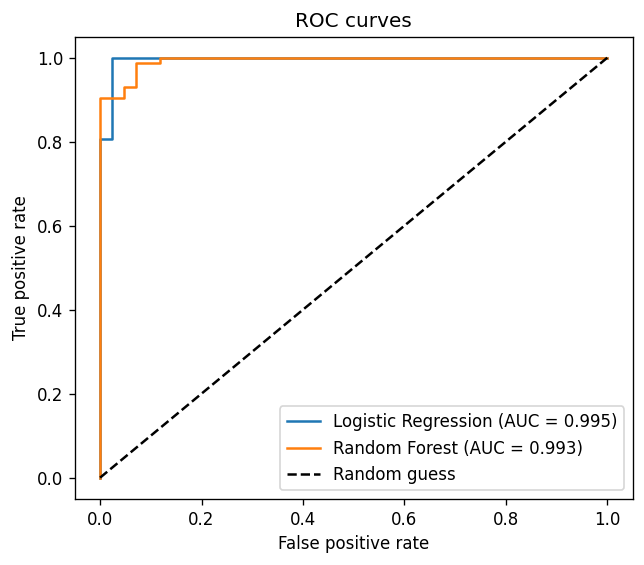
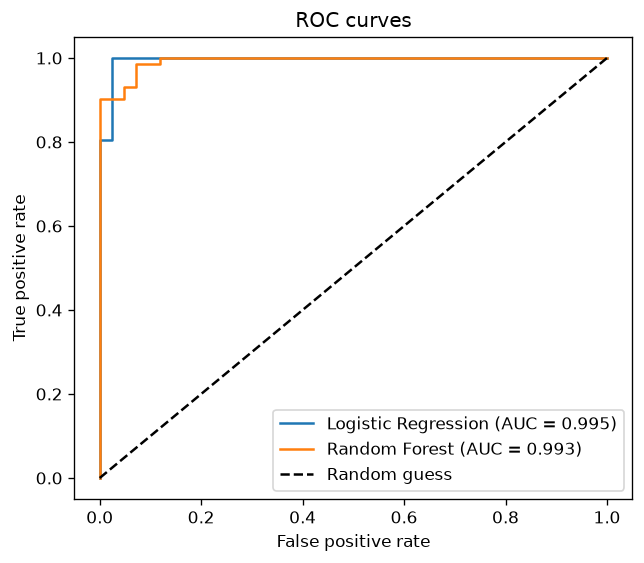
Add day-15-model-evaluation

diff --git a/System7-task3/day-15-model-evaluation/practice/q03_regression_metrics.py b/System7-task3/day-15-model-evaluation/practice/q03_regression_metrics.py
@@ -8,13 +8,19 @@ import pandas as pd
 from sklearn.linear_model import LinearRegression
 from sklearn.metrics import mean_absolute_error, mean_squared_error, r2_score
 from sklearn.model_selection import train_test_split
-
-DATA = Path(__file__).resolve().parents[2] / "tasks" / "data" / "houses.csv"
+try:
+    print("data loading successfull.")
+    DATA = Path(__file__).resolve().parents[2] / "syllabus Modules" / "data" / "houses.csv"
+except Exception as e:
+    print("Error to loading the data:",e)
+# if not DATA.exists():
+#     DATA = Path(__file__).resolve().parents[2] / "sylla" / "data" / "houses.csv"
 df = pd.read_csv(DATA).dropna()
 features = ["area_sqft", "bedrooms", "bathrooms", "age_years", "distance_km"]
 
 X_train, X_test, y_train, y_test = train_test_split(
     df[features], df["price"], test_size=0.2, random_state=42)
+
 model = LinearRegression().fit(X_train, y_train)
 y_true = y_test.to_numpy()
 y_pred = model.predict(X_test)

diff --git a/System7-task3/day-15-model-evaluation/practice/q01_split_stratify.py b/System7-task3/day-15-model-evaluation/practice/q01_split_stratify.py
@@ -3,11 +3,15 @@ from sklearn.datasets import load_breast_cancer
 from sklearn.model_selection import train_test_split
 
 X, y = load_breast_cancer(return_X_y=True, as_frame=True)
-
-X_train, X_test, y_train, y_test = train_test_split(
+try:
+    print("working only")
+    X_train, X_test, y_train, y_test = train_test_split(
     X, y, test_size=0.20, random_state=42, stratify=y
 )
-
+except Exception as e:
+    print("not working")
+    print(e)
+    
 for name, X_part, y_part in [("Train", X_train, y_train), ("Test", X_test, y_test)]:
     print(f"{name}: X shape = {X_part.shape}, y shape = {y_part.shape}")
     counts = y_part.value_counts().sort_index().to_dict()
